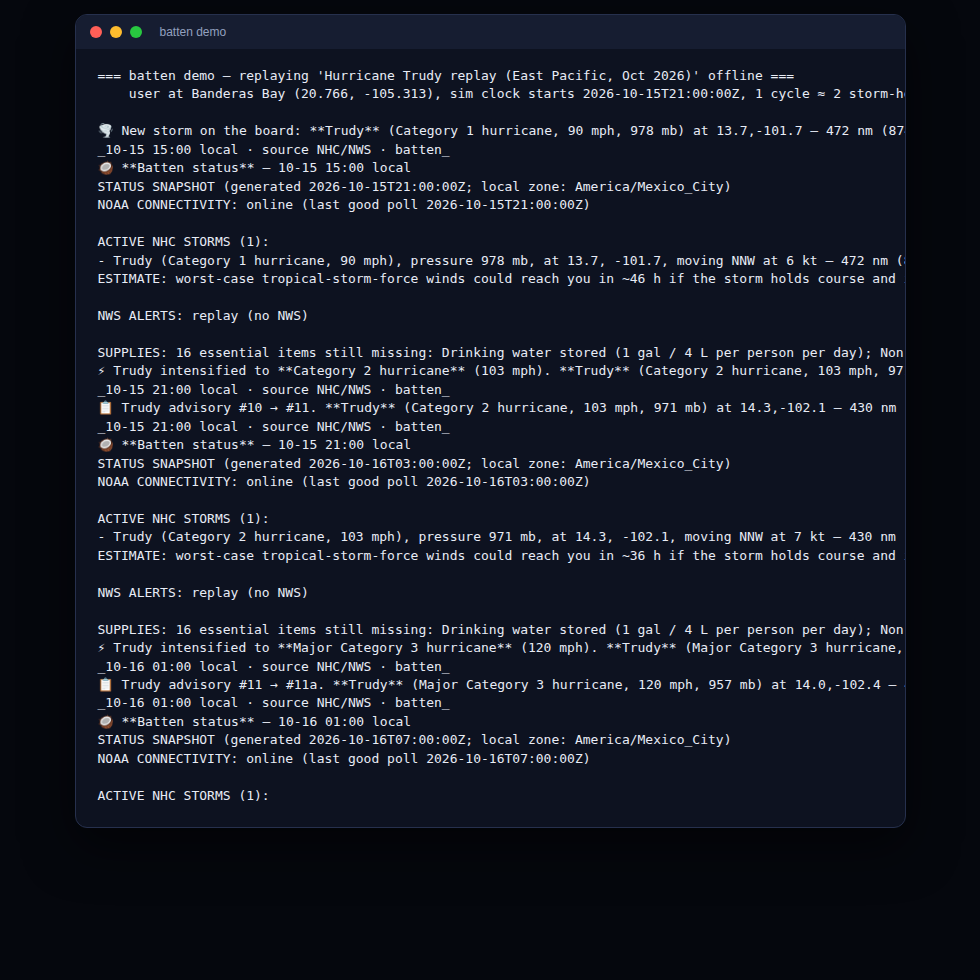
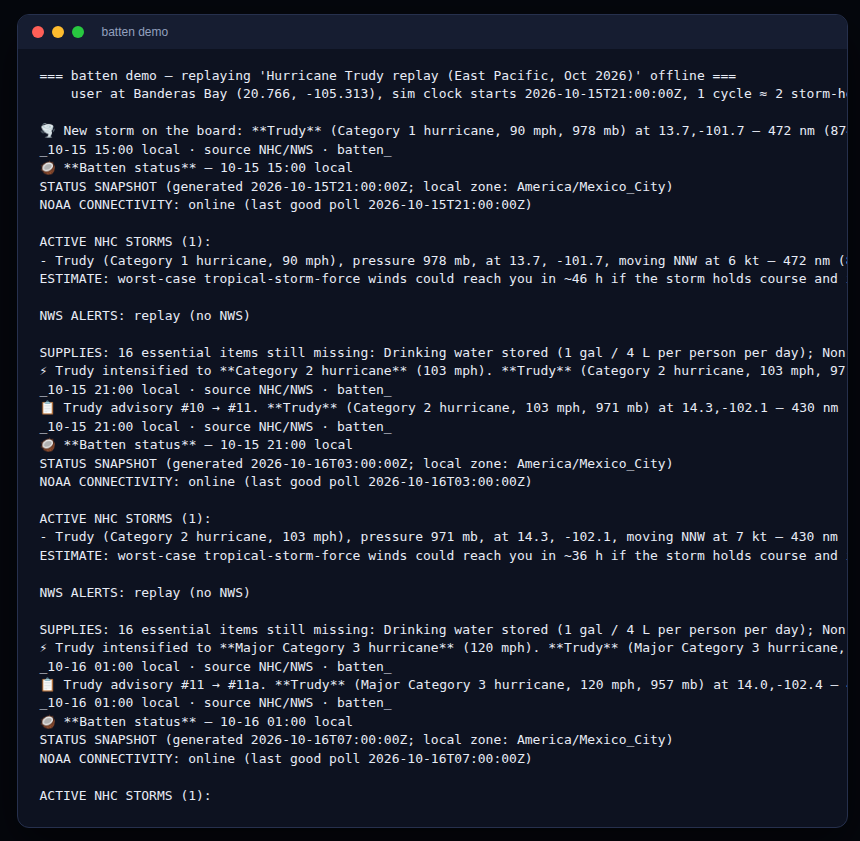
Update README formatting and fix screenshot crop margins

Changed region(s): [[0.0, 0.0, 0.9977, 0.9584]]

diff --git a/README.md b/README.md
@@ -4,7 +4,7 @@
 your location, keeps a running storm log, tracks your household's supply
 readiness, and chats with you about all of it through a local open-weight
 model. When the internet dies mid-storm, it keeps working: it warns you that
-NOAA is unreachable, tells you *why*, and after a few hours offline it builds
+NOAA is unreachable, tells you _why_, and after a few hours offline it builds
 a worst-case 48-hour outlook from the last good data so you can plan while
 you're in the dark.
 
@@ -13,8 +13,7 @@ Use it three ways: a plain **CLI**, a full-screen **terminal dashboard**
 your phone while you're sanding plywood. No cloud, no accounts, no
 subscription.
 
-> Batten: *(verb)* — to batten down the hatches; to secure everything before a
-> storm.
+> Batten: _(verb)_ — to batten down the hatches; to secure everything before a storm.
 
 Inspired by a real storm-season Discord bot that spent five days watching a
 hurricane for a first-time homeowner — every two hours, day and night.
@@ -23,23 +22,23 @@ hurricane for a first-time homeowner — every two hours, day and night.
 
 ## Screenshots
 
-| | |
-|---|---|
+|                                                 |                                                     |
+| ----------------------------------------------- | --------------------------------------------------- |
 | ![TUI dashboard](screenshots/tui-dashboard.png) | ![TUI outage](screenshots/tui-dashboard-outage.png) |
-| *TUI dashboard, storm replay, metric units* | *Same dashboard, 6 h into an outage* |
-| ![Web phone](screenshots/web-phone.png) | ![Web desktop](screenshots/web-desktop.png) |
-| *LAN dashboard on a phone (live NOAA data)* | *The same server from a laptop* |
-| ![Chat](screenshots/chat.png) | ![Worst case](screenshots/worstcase.png) |
-| *Chat on a local model* | *Worst-case 48-h outlook from stale data* |
-| ![Supplies](screenshots/tui-supplies.png) | ![Log](screenshots/tui-log.png) |
-| *Supply readiness checklist* | *Every poll persisted to the weather log* |
+| _TUI dashboard, storm replay, metric units_     | _Same dashboard, 6 h into an outage_                |
+| ![Web phone](screenshots/web-phone.png)         | ![Web desktop](screenshots/web-desktop.png)         |
+| _LAN dashboard on a phone (live NOAA data)_     | _The same server from a laptop_                     |
+| ![Chat](screenshots/chat.png)                   | ![Worst case](screenshots/worstcase.png)            |
+| _Chat on a local model_                         | _Worst-case 48-h outlook from stale data_           |
+| ![Supplies](screenshots/tui-supplies.png)       | ![Log](screenshots/tui-log.png)                     |
+| _Supply readiness checklist_                    | _Every poll persisted to the weather log_           |
 
 More in `screenshots/`: the CLI (`status.png`, `demo.png`,
 `web-phone-supplies.png`, `web-phone-worstcase.png`).
 
 ## Why the open core matters
 
-Everything that makes Batten *Batten* runs on your machine, with open pieces:
+Everything that makes Batten _Batten_ runs on your machine, with open pieces:
 
 - **The brain is an open-weight model running locally** (via
   [Ollama](https://ollama.com) — Llama, Qwen, Gemma, Mistral, anything you've
@@ -56,26 +55,26 @@ Everything that makes Batten *Batten* runs on your machine, with open pieces:
   installs at all. Set it up once, run it forever, pay nothing per query. A
   3B model runs fine on a laptop.
 - **Swappable and inspectable.** Don't like the model? `batten init --model
-  qwen2.5:7b`. Don't like how the watcher phrases things? It's ~60 lines of
+qwen2.5:7b`. Don't like how the watcher phrases things? It's ~60 lines of
   prompt. Want a different worst-case doctrine? The engine is a documented,
   pure-Python module you can read and change. Try that with a subscription
   API.
 
-The deterministic safety loop is deliberately *not* LLM-dependent: trigger
+The deterministic safety loop is deliberately _not_ LLM-dependent: trigger
 detection, connectivity monitoring, and the worst-case math are plain code so
 they work under load, on battery, with the model cold. The open model sits on
 top and turns numbers into judgment.
 
 ## What it does
 
-| When online | When offline |
-| --- | --- |
-| Polls NHC every 2h (30 min when alerts are active or a storm is near) | Keeps retrying every 10 min |
-| Watches alerts from any configured provider: NWS (US), CAP 1.2 feeds (worldwide), or any JSON endpoint | Marks the gap, keeps NHC history |
+| When online                                                                                                                                | When offline                                                                                        |
+| ------------------------------------------------------------------------------------------------------------------------------------------ | --------------------------------------------------------------------------------------------------- |
+| Polls NHC every 2h (30 min when alerts are active or a storm is near)                                                                      | Keeps retrying every 10 min                                                                         |
+| Watches alerts from any configured provider: NWS (US), CAP 1.2 feeds (worldwide), or any JSON endpoint                                     | Marks the gap, keeps NHC history                                                                    |
 | Alerts on: new storms, category changes, rapid intensification, landfall statements, watch/warning changes, 300/150 nm proximity crossings | **Warns you immediately** that NOAA is unreachable, with the cause (DNS vs timeout vs server error) |
-| Frames every storm relative to you: distance, bearing, and whether it's **headed toward you**, moving away, or passing | After **6 h** offline, fires a **worst-case 48-hour outlook** built from last-good data |
-| Logs every poll to a human-readable `weather-log.md` | Chat still works — the model is local; it answers from the log |
-| Console + TUI + LAN web dashboard + optional Discord webhook | Console and TUI always work |
+| Frames every storm relative to you: distance, bearing, and whether it's **headed toward you**, moving away, or passing                     | After **6 h** offline, fires a **worst-case 48-hour outlook** built from last-good data             |
+| Logs every poll to a human-readable `weather-log.md`                                                                                       | Chat still works — the model is local; it answers from the log                                      |
+| Console + TUI + LAN web dashboard + optional Discord webhook                                                                               | Console and TUI always work                                                                         |
 
 ## Quick start
 
@@ -170,12 +169,12 @@ note and never takes the others down. Check them with `batten doctor`.
 
 1. **Detection.** Every poll classifies failure: `dns` (internet down /
    captive portal), `timeout` (weak signal, congestion, ISP outage), `http`,
-   or `parse`. NWS not covering your country is *not* an outage — it's
+   or `parse`. NWS not covering your country is _not_ an outage — it's
    reported as a coverage note.
 2. **Immediate warning.** The first failed poll after a good one emits:
-   *"⚠ Cannot reach NOAA — operating on last known data. Cause: connections
+   _"⚠ Cannot reach NOAA — operating on last known data. Cause: connections
    timing out… I'll keep retrying every 10 min and build a worst-case outlook
-   if this lasts 6 h."*
+   if this lasts 6 h."_
 3. **Persistence.** Every poll — good or bad — is written to
    `~/.batten/weather-log.md` with source timestamps. That log is the model's
    memory while offline.
@@ -187,8 +186,8 @@ note and never takes the others down. Check them with `batten doctor`.
    every line labeled `ESTIMATE` with the timestamp of the last good data. The
    local model then turns it into a short, calm action plan. If the model is
    down too, the numbers go out as-is.
-5. **Recovery.** When NOAA answers again you get *"✅ NOAA is back after X h
-   offline"*, and the state machine resets.
+5. **Recovery.** When NOAA answers again you get _"✅ NOAA is back after X h
+   offline"_, and the state machine resets.
 
 Run the engine any time: `batten worstcase --outage-hours 7 --narrate`.
 
@@ -314,5 +313,5 @@ UI strings, a one-file release with PyInstaller.
 
 MIT. Data by NOAA/NWS (US public domain). Not affiliated with NOAA.
 
-*For the two that came through while this was being written — and for whoever
-reads their storm log by flashlight.*
+_For the two that came through while this was being written — and for whoever
+reads their storm log by flashlight._
